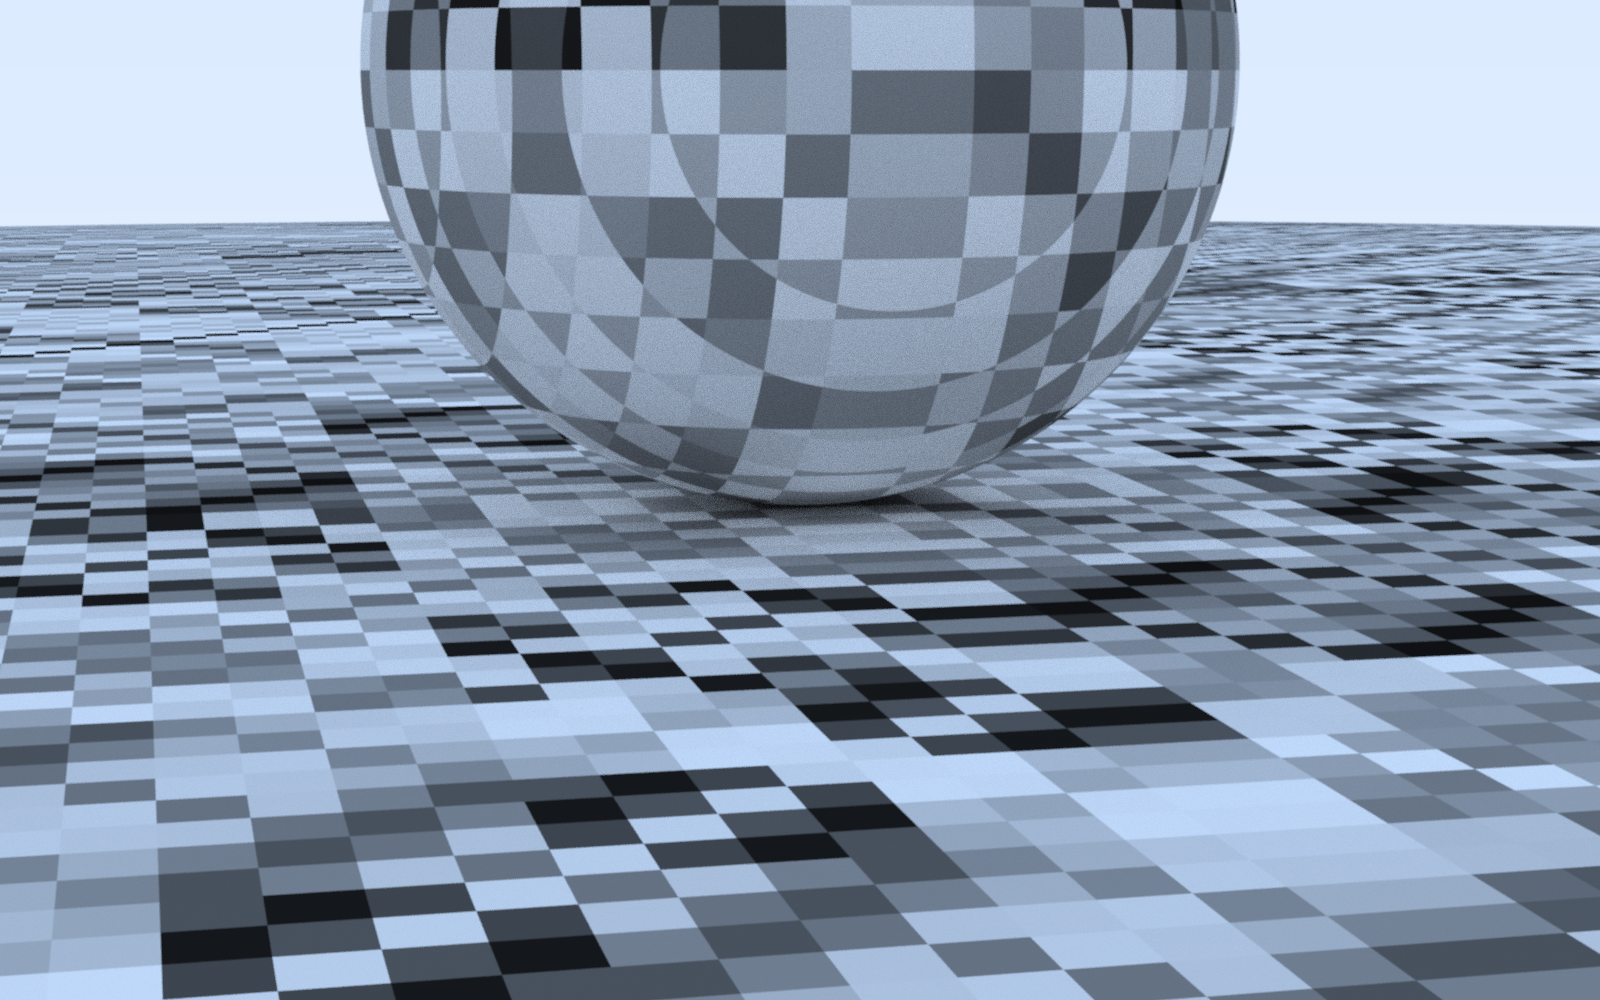
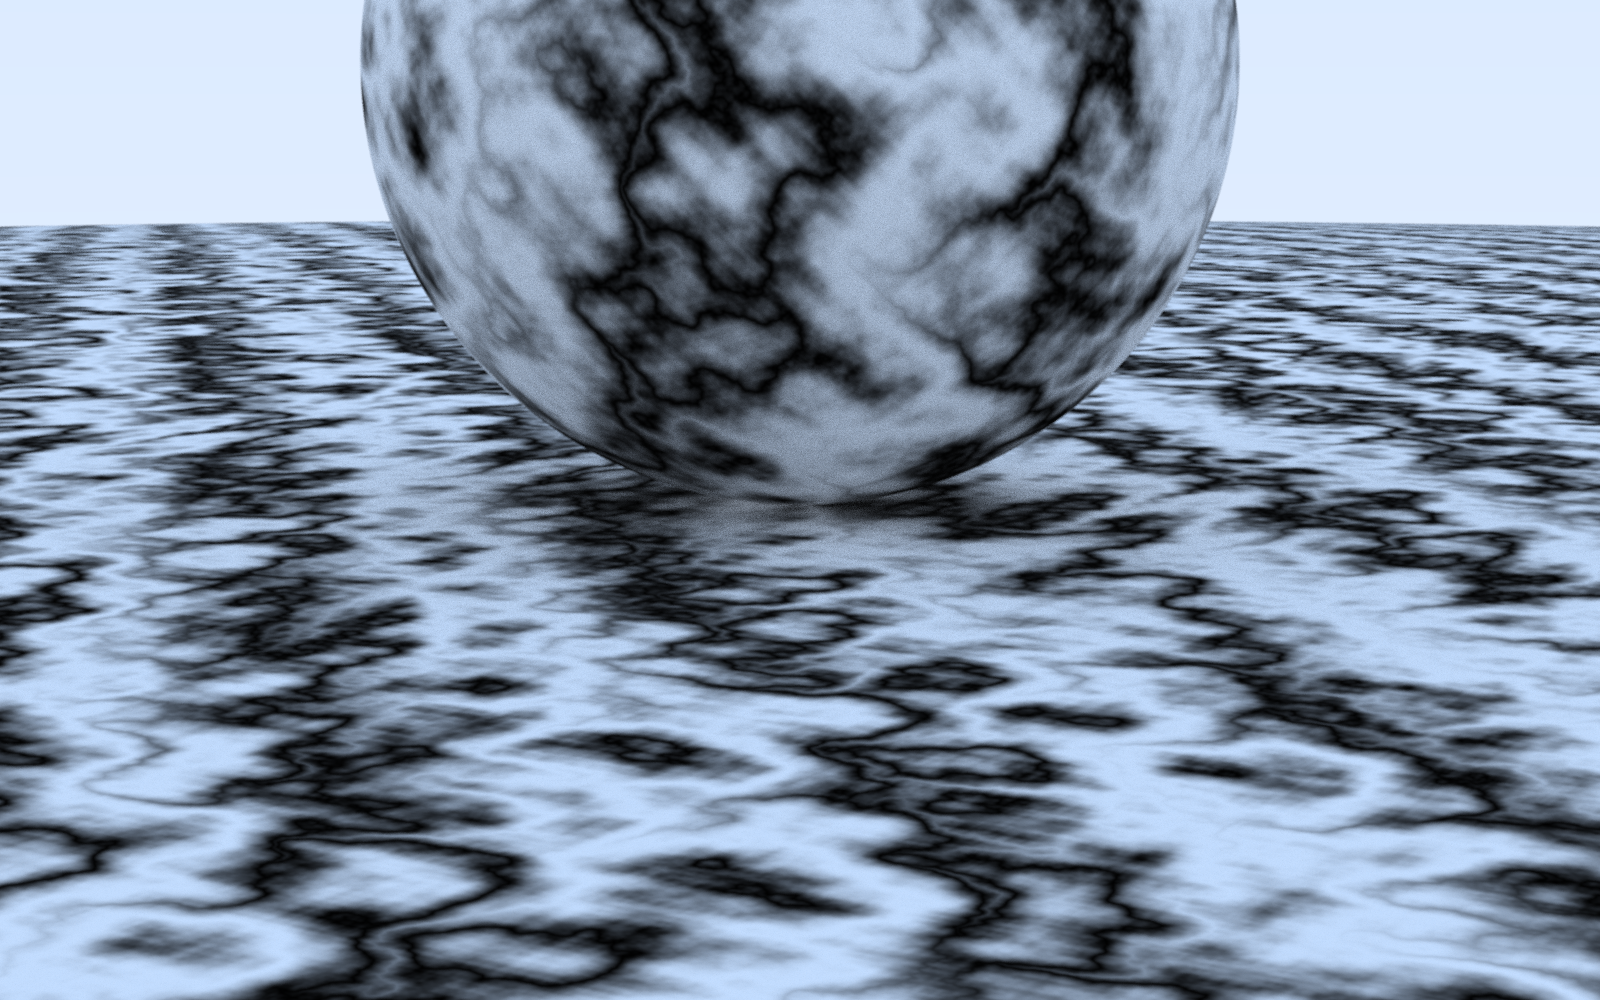
perlin with turbulance

diff --git a/src/noise.rs b/src/noise.rs
@@ -1,9 +1,9 @@
-use crate::P3;
+use crate::{P3, V3};
 use rand::random_range;
 
 #[derive(Debug, Clone, Copy)]
 pub struct Perlin<const N: usize = 256> {
-    rand_float: [f64; N],
+    rand_vec: [V3; N],
     perm_x: [usize; N],
     perm_y: [usize; N],
     perm_z: [usize; N],
@@ -17,13 +17,13 @@ impl Default for Perlin {
 
 impl<const N: usize> Perlin<N> {
     pub fn new() -> Self {
-        let mut rand_float = [0.0; N];
+        let mut rand_vec = [V3::default(); N];
         let mut perm_x = [0; N];
         let mut perm_y = [0; N];
         let mut perm_z = [0; N];
 
         for i in 0..N {
-            rand_float[i] = random_range(0.0..1.0);
+            rand_vec[i] = V3::random(-1.0, 1.0).unit_vector();
             for s in [&mut perm_x, &mut perm_y, &mut perm_z] {
                 s[i] = i;
             }
@@ -37,7 +37,7 @@ impl<const N: usize> Perlin<N> {
         }
 
         Self {
-            rand_float,
+            rand_vec,
             perm_x,
             perm_y,
             perm_z,
@@ -45,10 +45,62 @@ impl<const N: usize> Perlin<N> {
     }
 
     pub fn noise(&self, p: P3) -> f64 {
-        let i = ((4.0 * p.x) as isize & 255) as usize;
-        let j = ((4.0 * p.y) as isize & 255) as usize;
-        let k = ((4.0 * p.z) as isize & 255) as usize;
+        let u = p.x - p.x.floor();
+        let v = p.y - p.y.floor();
+        let w = p.z - p.z.floor();
 
-        self.rand_float[self.perm_x[i] ^ self.perm_y[j] ^ self.perm_z[k]]
+        let i = p.x.floor() as isize;
+        let j = p.y.floor() as isize;
+        let k = p.z.floor() as isize;
+
+        let mut c = [[[V3::default(); 2]; 2]; 2];
+
+        #[allow(clippy::needless_range_loop)]
+        for di in 0..2 {
+            for dj in 0..2 {
+                for dk in 0..2 {
+                    c[di][dj][dk] = self.rand_vec[self.perm_x[((i + di as isize) & 255) as usize]
+                        ^ self.perm_y[((j + dj as isize) & 255) as usize]
+                        ^ self.perm_z[((k + dk as isize) & 255) as usize]];
+                }
+            }
+        }
+
+        let uu = u * u * (3.0 - 2.0 * u);
+        let vv = v * v * (3.0 - 2.0 * v);
+        let ww = w * w * (3.0 - 2.0 * w);
+        let mut acc = 0.0;
+
+        #[allow(clippy::needless_range_loop)]
+        for i in 0..2 {
+            let fi = i as f64;
+            for j in 0..2 {
+                let fj = j as f64;
+                for k in 0..2 {
+                    let fk = k as f64;
+                    let weight = V3::new(u - fi, v - fj, w - fk);
+                    acc += (fi * uu + (1.0 - fi) * (1.0 - uu))
+                        * (fj * vv + (1.0 - fj) * (1.0 - vv))
+                        * (fk * ww + (1.0 - fk) * (1.0 - ww))
+                        * c[i][j][k].dot(&weight);
+                }
+            }
+        }
+
+        acc
+    }
+
+    pub fn turb(&self, p: P3, depth: usize) -> f64 {
+        let mut acc = 0.0;
+        let mut temp_p = p;
+        let mut weight = 1.0;
+
+        for _ in 0..depth {
+            acc += weight * self.noise(temp_p);
+            weight *= 0.5;
+            temp_p *= 2.0;
+        }
+
+        acc.abs()
     }
 }

diff --git a/src/material.rs b/src/material.rs
@@ -17,6 +17,7 @@ pub enum Texture {
     },
     Noise {
         noise: Box<Perlin<256>>,
+        scale: f64,
     },
 }
 
@@ -39,9 +40,10 @@ impl Texture {
         Self::Image { raw }
     }
 
-    pub fn noise() -> Texture {
+    pub fn noise(scale: f64) -> Texture {
         Self::Noise {
             noise: Box::new(Perlin::new()),
+            scale,
         }
     }
 
@@ -54,7 +56,7 @@ impl Texture {
                 even,
             } => checker_value(u, v, p, *inv_scale, odd, even),
             Self::Image { raw } => image_value(u, v, p, raw),
-            Self::Noise { noise } => noise_value(p, noise),
+            Self::Noise { noise, scale } => noise_value(p, noise, *scale),
         }
     }
 }
@@ -88,8 +90,9 @@ fn image_value(mut u: f64, mut v: f64, _p: P3, raw: &RgbImage) -> Color {
     )
 }
 
-fn noise_value(p: P3, noise: &Perlin<256>) -> Color {
-    Color::new(1.0, 1.0, 1.0) * noise.noise(p)
+fn noise_value(p: P3, noise: &Perlin<256>, scale: f64) -> Color {
+    Color::new(0.5, 0.5, 0.5) * (1.0 + (scale * p.z + 10.0 * noise.turb(p, 7)).sin())
+    // return color(.5, .5, .5) * (1 + std::sin(scale * p.z() + 10 * noise.turb(p, 7)));
 }
 
 #[derive(Debug, Clone)]
@@ -118,9 +121,9 @@ impl Material {
         }
     }
 
-    pub fn noise() -> Material {
+    pub fn noise(scale: f64) -> Material {
         Self::Lambertian {
-            texture: Texture::noise(),
+            texture: Texture::noise(scale),
         }
     }
 

diff --git a/src/main.rs b/src/main.rs
@@ -234,7 +234,7 @@ pub fn checkered_spheres() -> (Vec<Hittable>, Camera) {
 pub fn perlin_spheres() -> (Vec<Hittable>, Camera) {
     let mut hittables = Vec::default();
 
-    let perlin = Material::noise();
+    let perlin = Material::noise(4.0);
     hittables.push(Sphere::new(P3::new(0.0, -1000.0, 0.0), 1000.0, perlin.clone()).into());
     hittables.push(Sphere::new(P3::new(0.0, 2.0, 0.0), 2.0, perlin).into());
 
